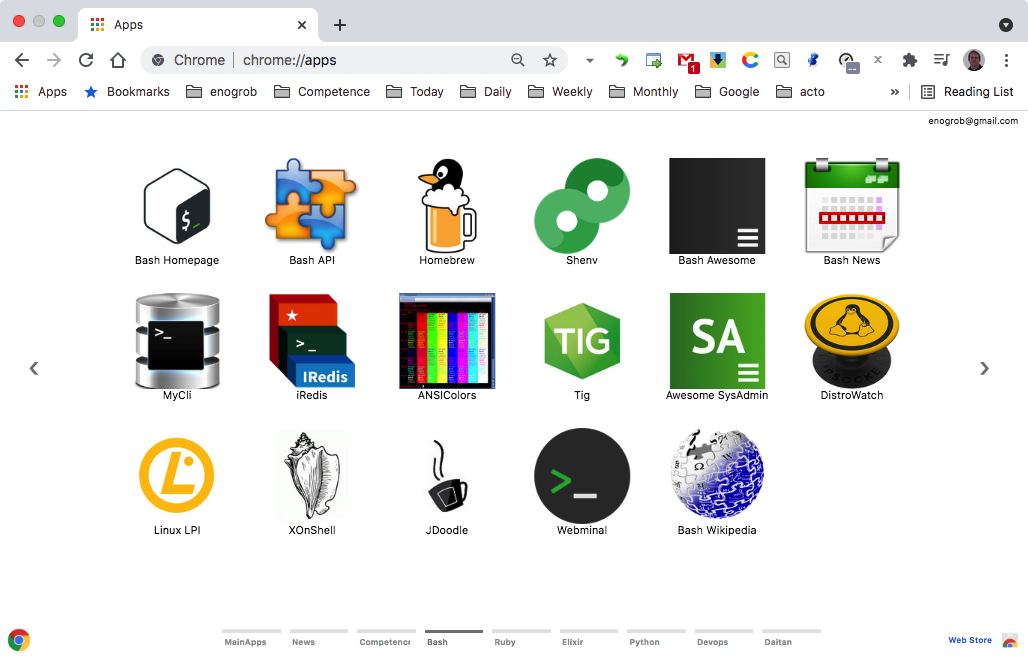
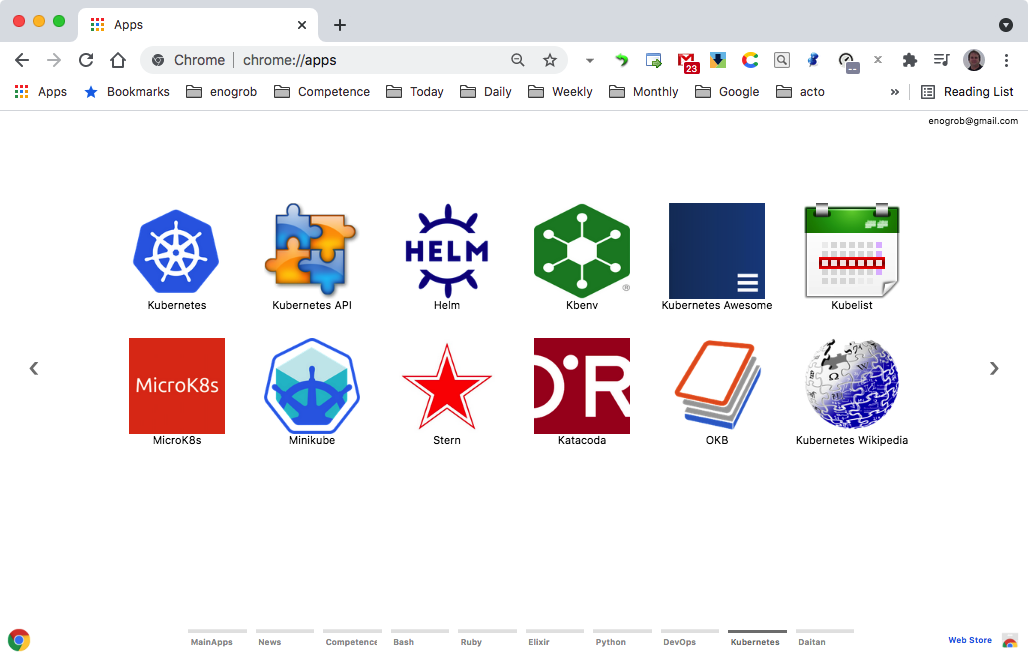
update-apps

diff --git a/README.md b/README.md
@@ -16,21 +16,34 @@ As we can see a subdirectory is created for each Bash app.
 ```bash
 $ ls -la
 total 984
-drwxr-xr-x@  10 enogrob  staff    340 Oct  3 16:42 .
-drwxr-xr-x@ 298 enogrob  staff  10132 Oct  4 02:29 ..
--rw-r--r--@   1 enogrob  staff   6148 Oct  3 16:58 .DS_Store
-drwxr-xr-x   14 enogrob  staff    476 Oct  3 16:54 .git
+drwxr-xr-x@  10 enogrob  staff    340 Jul  2 09:38 .
+drwxr-xr-x@ 405 enogrob  staff  13770 Jul  2 09:33 ..
+-rw-r--r--@   1 enogrob  staff   6148 Oct  4  2020 .DS_Store
+drwxr-xr-x   13 enogrob  staff    442 Jul  2 11:15 .git
 -rw-r--r--    1 enogrob  staff      5 May 31  2016 .gitignore
-drwxr-xr-x   10 enogrob  staff    340 Nov 17  2016 .idea
 -rw-r--r--@   1 enogrob  staff      0 Nov 17  2016 Icon?
--rw-r--r--@   1 enogrob  staff   1892 Oct  4 02:33 README.md
-drwxr-xr-x   19 enogrob  staff    646 Oct  4 02:31 apps
-drwxr-xr-x    4 enogrob  staff    136 Oct  4 02:32 images
+-rw-r--r--@   1 enogrob  staff   1555 Jul  2 09:37 README.md
+drwxr-xr-x   14 enogrob  staff    476 Jul  2 11:26 apps
+drwxr-xr-x    4 enogrob  staff    136 Jul  1 14:30 images
+drwxr-xr-x    4 enogrob  staff    136 Jul  1 06:41 resources
+total 984
 
 $ tree -L 1 apps/
 apps
+├── Kubernetes-API
+├── Kubernetes-Awesome
+├── Kubernetes-Helm
+├── Kubernetes-Homepage
+├── Kubernetes-Katacoda
+├── Kubernetes-Kbenv
+├── Kubernetes-Kubelist
+├── Kubernetes-MicroK8s
+├── Kubernetes-Minikube
+├── Kubernetes-OKB
+├── Kubernetes-Stern
+└── Kubernetes-Wikipedia
 
-17 directories, 0 files
+12 directories, 0 files
 $
 ```
 
